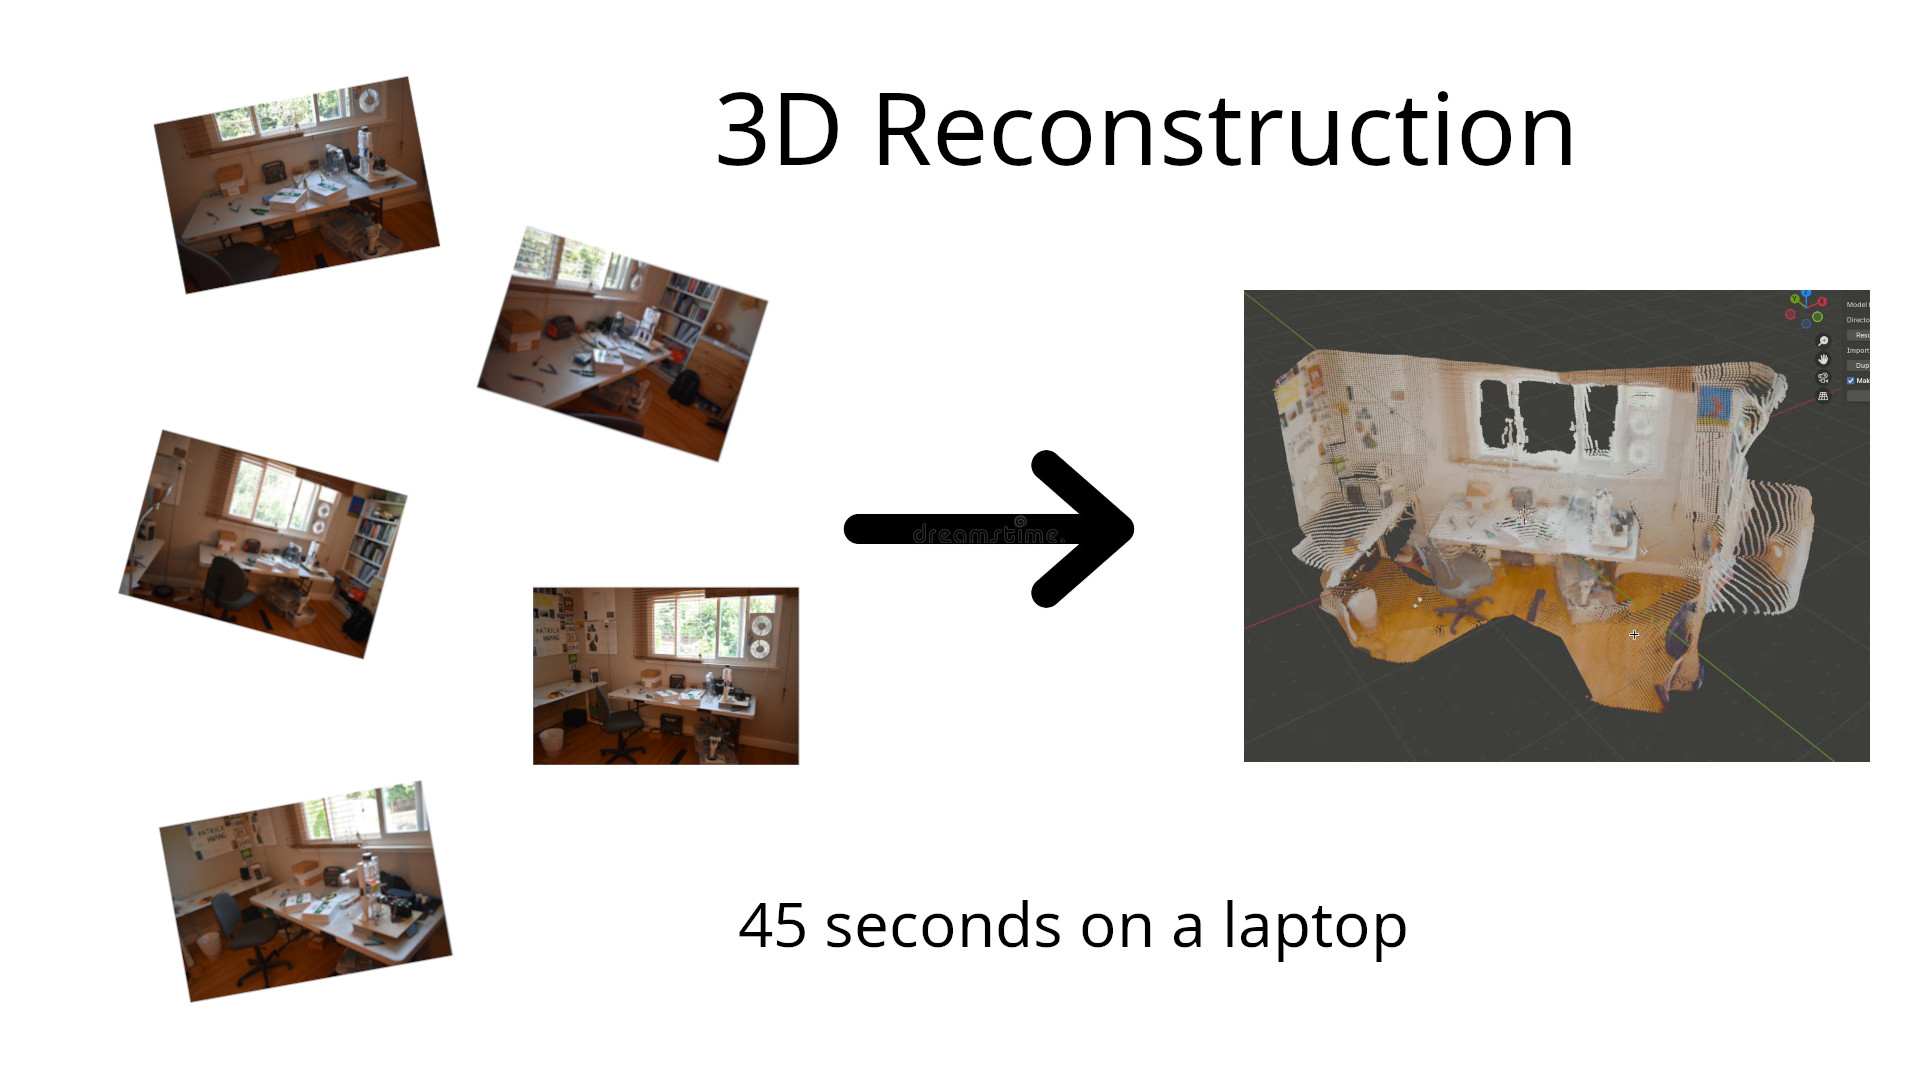
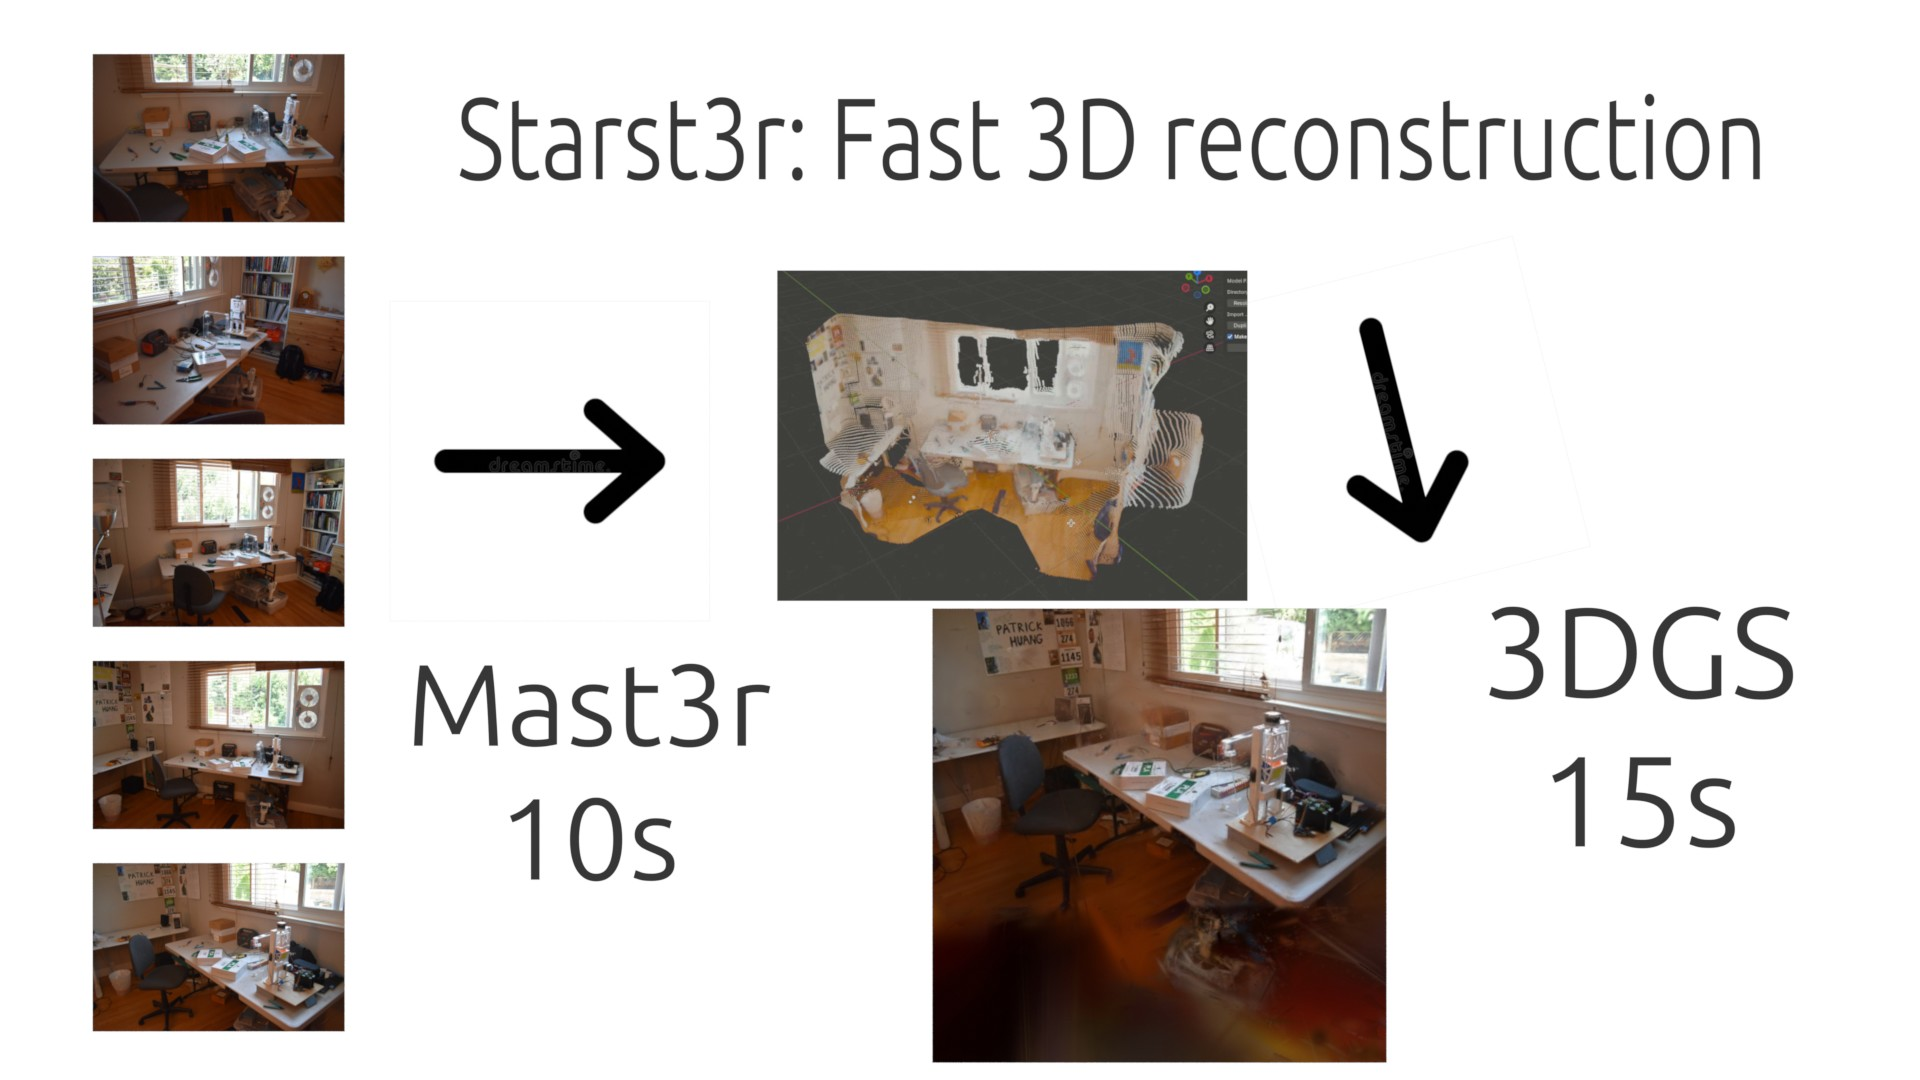
New images.

diff --git a/docs/3dgs.rst b/docs/3dgs.rst
@@ -3,10 +3,8 @@
 
 3D Gaussian Splatting (3DGS) refines a 3D scene for visual quality.
 
-It can use the Mast3r reconstruction as a starting point, dramatically improving
-speed.
-
-In the Starst3r library, it must extend off of a Mast3r scene.
+In this library, it uses the Mast3r reconstruction as a starting point,
+dramatically improving speed.
 
 Tutorial
 --------
@@ -15,6 +13,8 @@ Tutorial
 ^^^^^^^^^^^^^^^^
 
 Create a trainer object after reconstructing a scene with Mast3r.
+
+See :ref:`Mast3r reconstruction`.
 
 .. code-block:: python
 
@@ -31,10 +31,10 @@ Run optimization, pruning, and densification.
 
 .. code-block:: python
 
-   # Run 3DGS optimization for 1000 iters
-   gs.run_optimization(1000, enable_pruning=True, verbose=True)
+   # Run 3DGS optimization for 500 iters
+   gs.run_optimization(500, enable_pruning=True, verbose=True)
    # Run without pruning and densification
-   gs.run_optimization(5000, enable_pruning=False, verbose=True)
+   gs.run_optimization(100, enable_pruning=False, verbose=True)
 
 3. Render views
 ^^^^^^^^^^^^^^^

diff --git a/docs/mast3r.rst b/docs/mast3r.rst
@@ -24,12 +24,9 @@ Load the images using Starst3r functions:
 
 .. code-block:: python
 
-   # These two are sufficient.
+   # Load and preprocess from a path.
    img = starster.load_image("/path/to/img.jpg", size=224)
    imgs = starster.load_images(files)
-
-   # Or, process a preloaded image to pipeline requirements.
-   processed_img = starster.process_image(another_img, size=224)
 
 See the docs for return and argument specifications.
 
